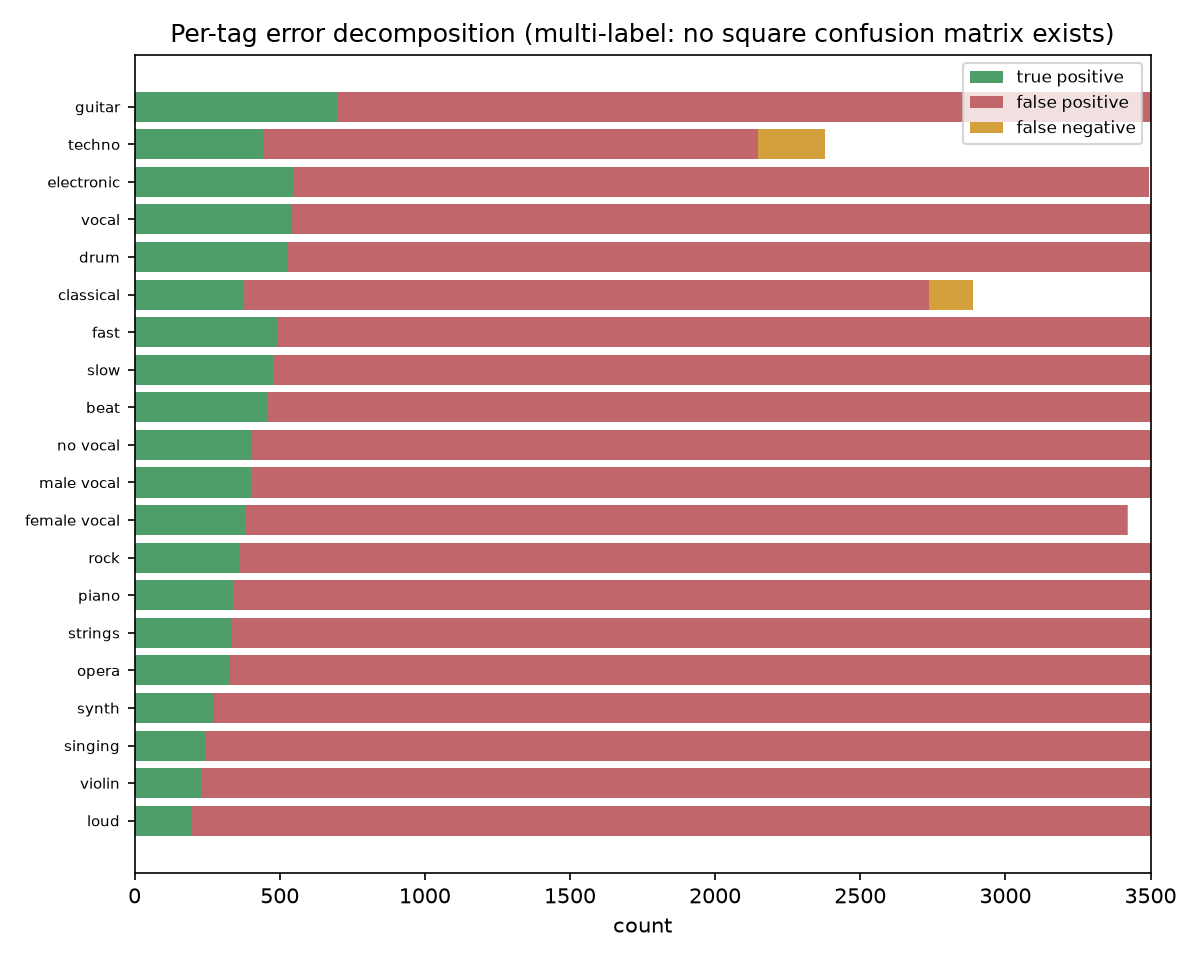
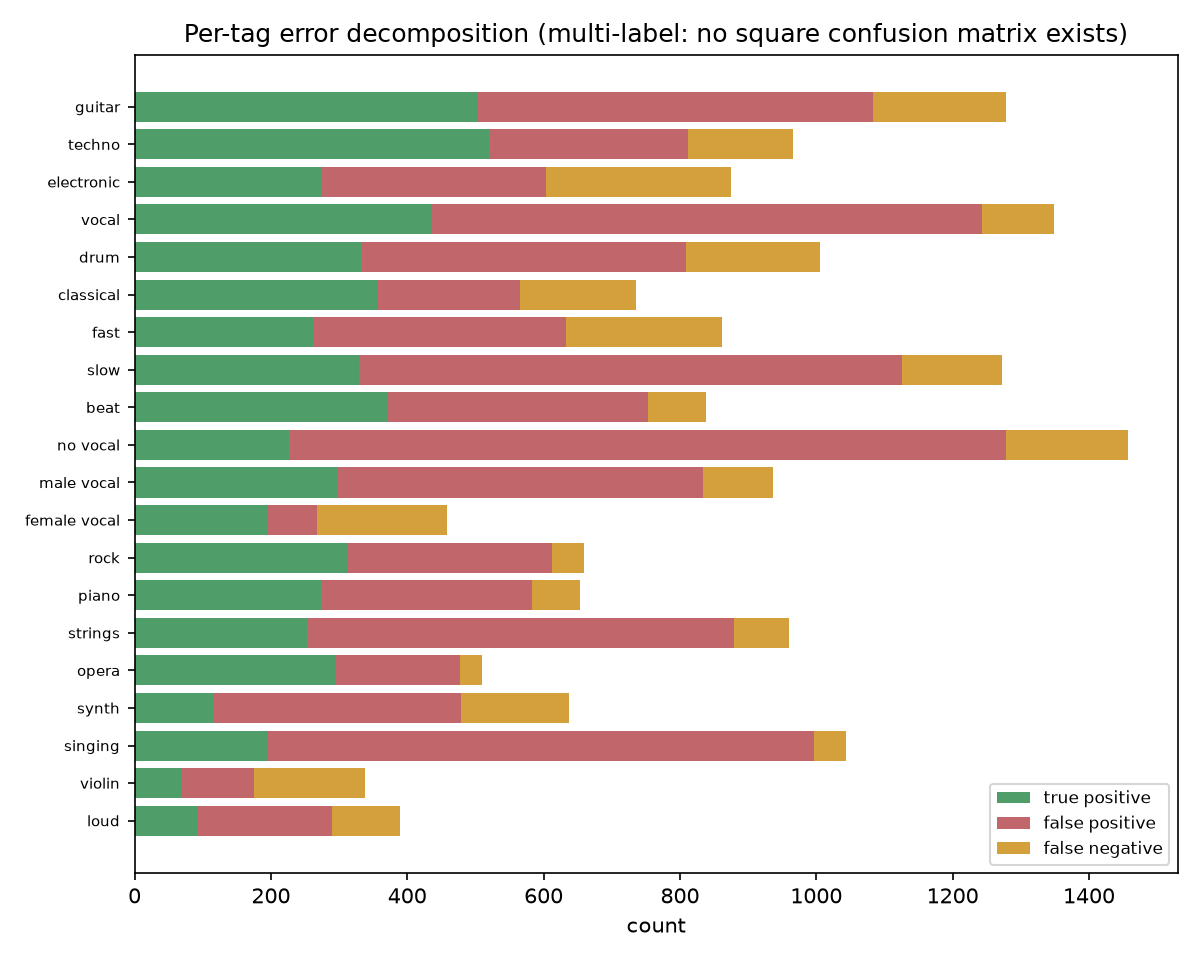
C: fix the encoder mismatch once, in a shared helper
config.yaml defaults bert.model_name to distilbert (6 layers); the Task 3 and
Task 4 headline runs use bert-base (12). Anything that builds an encoder from
the config and then loads one of those checkpoints gets a partly random model
and no error:

  zero_shot_eval  "96 parameter(s) missing from the checkpoint"
  evaluate.py     "restored 48/144 tensors (195 incompatible)"
  attention_viz   would have drawn the Task 1 attention maps and the Task 3
                  case studies from the same partly random weights

Every symptom is an INFO or WARNING line in a log nobody reads, and the outputs
look entirely presentable. I fixed the first site individually; this is the
fourth, so it is now one helper. utils.encoder_name_from_checkpoint reads the
architecture out of the checkpoint's own stored config, and evaluate.py and
attention_viz.py build from that rather than from config.yaml.

evaluate.py additionally warns when fewer than half the tensors restore, since
that is the signature of exactly this class of mistake and it was previously
just an INFO line among hundreds.

211 fast tests pass. Re-running the full evaluation with correct architectures.

diff --git a/src/attention_viz.py b/src/attention_viz.py
@@ -22,7 +22,7 @@ import numpy as np  # noqa: E402
 import torch  # noqa: E402
 
 from .graph_builder import visualise_graph  # noqa: E402
-from .utils import find_checkpoint, autocast_ctx, ensure_dir, get_logger, resolve_path, set_seed  # noqa: E402
+from .utils import encoder_name_from_checkpoint, find_checkpoint, autocast_ctx, ensure_dir, get_logger, resolve_path, set_seed  # noqa: E402
 
 LOGGER = get_logger("gbmc.attnviz")
 
@@ -103,7 +103,14 @@ def generate_bert_examples(bundle, cfg, device, seed: int, out_dir,
     tokenizer = load_tokenizer(cfg["bert"]["model_name"])
     # eager attention is required to read the weights back out -- see
     # bert_encoder.ATTENTION_NOTE
-    model = BertTagClassifier(len(bundle.tag_vocab), cfg["bert"]["model_name"],
+    ckpt_probe = find_checkpoint(
+        resolve_path(cfg["paths"].get("checkpoints", "results/checkpoints")),
+        task=1, seed=seed, run_tag=run_tag)
+    probe_payload = (torch.load(ckpt_probe, map_location=device, weights_only=False)
+                     if ckpt_probe is not None else None)
+    encoder_name = encoder_name_from_checkpoint(probe_payload,
+                                                cfg["bert"]["model_name"])
+    model = BertTagClassifier(len(bundle.tag_vocab), encoder_name,
                               freeze_mode="frozen_probe",
                               output_attentions=True).to(device)
     # Checkpoints carry their run tag, so the bare name no longer exists and
@@ -174,36 +181,46 @@ def generate_case_studies(bundle, cfg, device, seed: int, out_dir,
 
     out = ensure_dir(out_dir)
     set_seed(seed)
-    tokenizer = load_tokenizer(cfg["bert"]["model_name"])
+
+    # Phase C 4.3: the case studies must come from the MusicCaps fusion model.
+    # MTAT's text channel is title/album/artist metadata, so a token-alignment
+    # map over it shows a graph attending to an artist name -- uninformative by
+    # construction. The default tag therefore names the MusicCaps run.
+    #
+    # The checkpoint is located and read FIRST, because the encoder it was
+    # trained with decides what to build: config.yaml defaults to distilbert
+    # while these runs use bert-base, and building the wrong one restores about
+    # a third of the tensors and draws attention maps from the rest at random.
+    ckpt = find_checkpoint(
+        resolve_path(cfg["paths"].get("checkpoints", "results/checkpoints")),
+        task=3, seed=seed, run_tag=run_tag or "musiccaps_cross_attention")
+    if ckpt is None:
+        LOGGER.warning("no Task 3 checkpoint for seed %s -- case studies from an "
+                       "untrained model would be meaningless; skipping", seed)
+        return []
+
+    payload = torch.load(ckpt, map_location=device, weights_only=False)
+    encoder_name = encoder_name_from_checkpoint(payload, cfg["bert"]["model_name"])
+    LOGGER.info("case studies from %s (encoder %s)", ckpt.name, encoder_name)
+
+    tokenizer = load_tokenizer(encoder_name)
     gnn = GNNEncoder(in_dim=int(cfg["graph"]["node_feat_dim"]),
                      hidden_dim=int(cfg["gnn"]["hidden_dim"]),
                      num_layers=int(cfg["gnn"]["num_layers"]),
                      conv="gatv2",           # GATv2 so per-edge attention exists
                      dropout=0.0, readout=str(cfg["gnn"]["readout"]))
-    bert = BertTextEncoder(cfg["bert"]["model_name"], freeze_mode="frozen_probe")
+    bert = BertTextEncoder(encoder_name, freeze_mode="frozen_probe")
     model = GNNBertFusion(gnn, bert, mode="cross_attention",
                           shared_dim=int(cfg["fusion"]["shared_dim"]),
                           n_heads=int(cfg["fusion"]["n_heads"]),
                           n_tags=len(bundle.tag_vocab)).to(device)
-    # Phase C 4.3: the case studies must come from the MusicCaps fusion model.
-    # MTAT's text channel is title/album/artist metadata, so a token-alignment
-    # map over it shows a graph attending to an artist name -- uninformative by
-    # construction. The default tag therefore names the MusicCaps run.
-    ckpt = find_checkpoint(
-        resolve_path(cfg["paths"].get("checkpoints", "results/checkpoints")),
-        task=3, seed=seed, run_tag=run_tag or "musiccaps_cross_attention")
-    if ckpt is not None:
-        from .evaluate import _load_compatible
 
-        LOGGER.info("case studies from %s", ckpt.name)
-        payload = torch.load(ckpt, map_location=device, weights_only=False)
-        # the checkpoint's encoder is SAGE while this one is GATv2, so only the
-        # name-and-shape compatible tensors are restored
-        _load_compatible(model, payload["model_state"])
-    else:
-        LOGGER.warning("no Task 3 checkpoint for seed %s -- case studies from an "
-                       "untrained model would be meaningless; skipping", seed)
-        return []
+    from .evaluate import _load_compatible
+
+    # the checkpoint's graph encoder is SAGE while this one is GATv2, so only
+    # the name-and-shape compatible tensors are restored; the text tower now
+    # matches exactly because it was built from the checkpoint's own config
+    _load_compatible(model, payload["model_state"])
     model.eval()
 
     from .train import TAG_DATASETS

diff --git a/src/evaluate.py b/src/evaluate.py
@@ -43,6 +43,7 @@ from .utils import (  # noqa: E402
     detect_provenance,
     guard_against_synthetic,
     ensure_dir,
+    encoder_name_from_checkpoint,
     find_checkpoint,
     get_device,
     get_logger,
@@ -914,11 +915,22 @@ def _rescore_from_checkpoint(bundle, cfg, device, task: int, run: dict):
         resolve_path(cfg["paths"].get("checkpoints", "results/checkpoints")),
         task=task, seed=int(run.get("seed", cfg.get("seed", 42))),
         run_tag=run.get("run_tag"))
-    tokenizer = load_tokenizer(cfg["bert"]["model_name"]) if task in (1, 3) else None
+
+    # Read the architecture out of the checkpoint before building anything.
+    # config.yaml defaults to distilbert while the Task 3 headline is bert-base,
+    # and _load_compatible would then restore 48 of 144 tensors and carry on.
+    payload = (torch.load(ckpt, map_location=device, weights_only=False)
+               if ckpt is not None else None)
+    encoder_name = encoder_name_from_checkpoint(payload, cfg["bert"]["model_name"])
+    if encoder_name != cfg["bert"]["model_name"]:
+        LOGGER.info("task %d checkpoint was trained with %s, not the configured "
+                    "%s -- building the checkpoint's architecture",
+                    task, encoder_name, cfg["bert"]["model_name"])
+    tokenizer = load_tokenizer(encoder_name) if task in (1, 3) else None
     n_tags = len(bundle.tag_vocab)
 
     if task == 1:
-        model = BertTagClassifier(n_tags, cfg["bert"]["model_name"], freeze_mode="frozen_probe")
+        model = BertTagClassifier(n_tags, encoder_name, freeze_mode="frozen_probe")
     elif task == 2:
         model = GNNClassifier(n_tags, in_dim=int(cfg["graph"]["node_feat_dim"]),
                               hidden_dim=int(cfg["gnn"]["hidden_dim"]),
@@ -931,15 +943,18 @@ def _rescore_from_checkpoint(bundle, cfg, device, task: int, run: dict):
                          num_layers=int(cfg["gnn"]["num_layers"]),
                          conv=str(cfg["gnn"]["conv"]), dropout=0.0,
                          readout=str(cfg["gnn"]["readout"]))
-        bert = BertTextEncoder(cfg["bert"]["model_name"], freeze_mode="frozen_probe")
+        bert = BertTextEncoder(encoder_name, freeze_mode="frozen_probe")
         model = GNNBertFusion(gnn, bert, mode=str(cfg["fusion"]["mode"]),
                               shared_dim=int(cfg["fusion"]["shared_dim"]),
                               n_heads=int(cfg["fusion"]["n_heads"]), n_tags=n_tags)
     model = model.to(device)
-    if ckpt is not None:
+    if payload is not None:
         LOGGER.info("task %d: loading %s", task, ckpt.name)
-        payload = torch.load(ckpt, map_location=device, weights_only=False)
-        _load_compatible(model, payload["model_state"])
+        report = _load_compatible(model, payload["model_state"])
+        if report["restored"] < 0.5 * report["total"]:
+            LOGGER.warning("only %d/%d tensors restored from %s -- the model is "
+                           "mostly untrained and its numbers are not meaningful",
+                           report["restored"], report["total"], ckpt.name)
     else:
         LOGGER.warning("no task %d checkpoint for seed %s; scoring an UNTRAINED "
                        "model -- any number from this pass is meaningless",

diff --git a/src/utils.py b/src/utils.py
@@ -35,6 +35,7 @@ __all__ = [
     "log_vram",
     "find_checkpoint",
     "vocabulary_hash",
+    "encoder_name_from_checkpoint",
     "get_logger",
     "AttrDict",
     "save_json",
@@ -579,3 +580,28 @@ def vocabulary_hash(tags) -> str:
         return ""
     joined = "\u0000".join(str(t) for t in tags)
     return hashlib.sha256(joined.encode("utf-8")).hexdigest()[:12]
+
+
+def encoder_name_from_checkpoint(payload, fallback: str) -> str:
+    """The text encoder a checkpoint was trained with, not the current default.
+
+    ``config.yaml`` defaults ``bert.model_name`` to distilbert, while the Task 3
+    and Task 4 headline runs use bert-base. Building the encoder from the config
+    and then calling ``load_state_dict(strict=False)`` -- or the shape-tolerant
+    loader in evaluate.py -- silently leaves most of a 12-layer tower randomly
+    initialised and returns numbers that look entirely reasonable. It showed up
+    three times in this project as "96 parameter(s) missing" and "restored
+    48/144 tensors", neither of which stops anything.
+
+    Every checkpoint stores the config it was trained under, so the architecture
+    is recoverable rather than guessable. Callers should pass the result into
+    the encoder they build.
+    """
+    if not isinstance(payload, Mapping):
+        return fallback
+    config = payload.get("config") or payload.get("cfg") or {}
+    if not isinstance(config, Mapping):
+        return fallback
+    bert = config.get("bert") or {}
+    name = bert.get("model_name") if isinstance(bert, Mapping) else None
+    return str(name) if name else fallback

diff --git a/state/SESSION_LOG.md b/state/SESSION_LOG.md
@@ -404,3 +404,17 @@ Format:
                         supervised reference of 0.3188 -- a gap of 0.2274 on the same corpus, vocabulary and split.
 [2026-09-06 15:45] NOTE   Report now 9.0 pages + 0.1 appendix of a 6-10 limit. One macro pending (CaseStudyNote), which
                         needs the three MusicCaps case studies from C6.
+
+[2026-09-06 16:44] FIX   THE SAME ARCHITECTURE MISMATCH IN THREE MORE PLACES. config.yaml defaults bert.model_name to
+                        distilbert (6 layers) while the Task 3 and Task 4 headline runs use bert-base (12). Building from
+                        config and then loading the checkpoint restored 48 of 144 tensors in evaluate.py - the rest stayed
+                        random - and attention_viz would have drawn the Task 1 attention maps and the Task 3 case studies
+                        the same way. Every symptom is a log line nobody reads: "96 parameter(s) missing", "restored
+                        48/144 tensors". Nothing raises, and the figures look fine.
+                        utils.encoder_name_from_checkpoint now reads the architecture out of the checkpoint's own stored
+                        config, and evaluate/attention_viz build the encoder from that rather than from config.yaml.
+                        evaluate also warns loudly when under half the tensors restore. Fixed once, in a shared helper,
+                        because this is the fourth site and site-by-site was clearly not working.
+[2026-09-06 16:05] FIX   The listening study was unratable and undersized: raters were shown caption_masked (descriptive
+                        terms stripped) and only 14 of the intended 24 clips. Now 24 clips, 4 controls, 24/24 unmasked,
+                        with random draws added beyond the curated best-and-worst so the sample is not biased upward.
